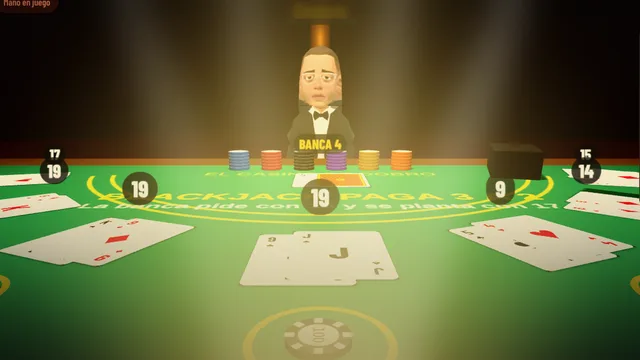
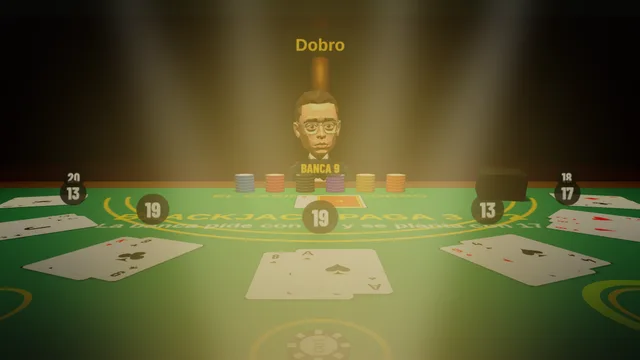
Casino primero en la lobby y tarjeta dorada gigante en los juegos
En la lista de la lobby el casino va primero (y es el juego elegido de
entrada). En la grilla de juegos ocupa toda la fila: borde dorado que gira,
brillo que barre la imagen, chispas que suben y título en oro animado.
Póster nuevo con Dobro de smoking y sin carteles de la interfaz.

Claude-Session: https://claude.ai/code/session_01GR3Q3hi2WhZwo1w7uuPhJy

diff --git a/portal/public/css/nueva-isla.css b/portal/public/css/nueva-isla.css
@@ -6,3 +6,34 @@
 .game-jugar{background:var(--lima);color:#1b2213;font:800 12px/1 'Barlow Condensed',sans-serif;letter-spacing:1px;text-transform:uppercase;padding:7px 14px;border-radius:5px}
 .game:hover .game-jugar{filter:brightness(1.08)}
 .game-meta{align-items:center}
+/* El casino de Dobro: ocupa los 3 lugares de la fila, todo dorado y animado */
+@property --oro-giro{syntax:'<angle>';inherits:false;initial-value:0deg}
+.game.casino-oro{grid-column:1/-1;position:relative;isolation:isolate;display:grid;grid-template-columns:1.55fr 1fr;min-height:360px;border:0;border-radius:12px;padding:3px;overflow:hidden;background:conic-gradient(from var(--oro-giro),#7a5410,#f2c94c,#fff3c0,#d4a017,#7a5410,#f2c94c,#fff3c0,#7a5410);animation:oro-giro 5s linear infinite,oro-latido 3s ease-in-out infinite;box-shadow:0 0 30px #f2c94c44,0 20px 60px #000a}
+.game.casino-oro:hover{transform:translateY(-6px) scale(1.005);box-shadow:0 0 60px #f2c94c88,0 24px 70px #000c}
+.casino-oro>.game-art,.casino-oro>.game-body{position:relative;z-index:1}
+.casino-oro .game-art{height:auto;border-radius:10px 0 0 10px;background:#2a1a08}
+.casino-oro .game-art img{filter:saturate(1.15) contrast(1.05)}
+.casino-oro .game-art:after{inset:0;background:linear-gradient(90deg,transparent 55%,#1a1206 100%),linear-gradient(transparent 60%,#1a1206cc)}
+.casino-oro .game-art::before{content:'';position:absolute;z-index:2;inset:0;background:linear-gradient(105deg,transparent 35%,#fff6c855 48%,#ffffffaa 50%,#fff6c855 52%,transparent 65%);transform:translateX(-120%);animation:oro-brillo 3.6s ease-in-out infinite;pointer-events:none}
+.casino-oro .game-body{display:flex;flex-direction:column;justify-content:center;gap:4px;padding:30px 34px;border-radius:0 10px 10px 0;background:radial-gradient(ellipse at 70% 0%,#4a3510 0%,#1f1608 55%,#140e05 100%)}
+.oro-titulo small{font:700 11px Barlow,sans-serif;letter-spacing:3px;text-transform:uppercase;color:#f2c94c;opacity:.85}
+.casino-oro .game-body h3{font:800 clamp(40px,4.4vw,64px)/.92 'Barlow Condensed',sans-serif;margin:8px 0 4px;background:linear-gradient(100deg,#a8761a 0%,#f2c94c 25%,#fffbe6 40%,#f2c94c 55%,#b8862a 75%,#f2c94c 100%);background-size:250% 100%;-webkit-background-clip:text;background-clip:text;color:transparent;animation:oro-texto 4s linear infinite;filter:drop-shadow(0 2px 12px #f2c94c55)}
+.casino-oro .game-body p{color:#e9dcb8;font-size:15px;min-height:0;margin:8px 0 14px}
+.oro-juegos{display:flex;flex-wrap:wrap;gap:8px;margin-bottom:20px}
+.oro-juegos span{border:1px solid #f2c94c66;background:#f2c94c14;color:#ffe9a8;border-radius:100px;padding:6px 13px;font:700 12px Barlow,sans-serif;letter-spacing:1px;text-transform:uppercase}
+.casino-oro .game-meta{border-top-color:#f2c94c33;color:#e6d29c;font-size:11px}
+.casino-oro .game-jugar{background:linear-gradient(180deg,#ffe58a,#f2c94c 45%,#c9961e);color:#2a1a04;font-size:17px;padding:11px 26px;border-radius:7px;box-shadow:0 0 0 0 #f2c94caa;animation:oro-pulso 1.8s infinite}
+.tag.oro{background:linear-gradient(90deg,#c9961e,#f2c94c);color:#2a1a04;border:0;font-size:10px}
+.oro-luz{position:absolute;z-index:2;top:-30%;left:-10%;width:60%;height:160%;pointer-events:none;background:radial-gradient(ellipse,#ffe9a826,transparent 60%);animation:oro-luz 7s ease-in-out infinite alternate}
+.oro-chispas{position:absolute;z-index:3;inset:0;pointer-events:none;overflow:hidden;border-radius:12px}
+.oro-chispas i{position:absolute;bottom:-12px;left:calc(var(--i) * 7.1% + 2%);width:6px;height:6px;border-radius:50%;background:#fff3c0;box-shadow:0 0 10px 3px #f2c94ccc;opacity:0;animation:oro-chispa calc(3.2s + var(--i) * .23s) linear infinite;animation-delay:calc(var(--i) * -.61s)}
+.oro-chispas i:nth-child(3n){width:4px;height:4px}.oro-chispas i:nth-child(4n){width:8px;height:8px;border-radius:1px;transform:rotate(45deg)}
+@keyframes oro-giro{to{--oro-giro:360deg}}
+@keyframes oro-latido{50%{box-shadow:0 0 55px #f2c94c77,0 20px 60px #000a}}
+@keyframes oro-brillo{0%,15%{transform:translateX(-120%)}60%,100%{transform:translateX(120%)}}
+@keyframes oro-texto{to{background-position:-250% 0}}
+@keyframes oro-pulso{0%{box-shadow:0 0 0 0 #f2c94caa}70%{box-shadow:0 0 0 14px #f2c94c00}100%{box-shadow:0 0 0 0 #f2c94c00}}
+@keyframes oro-luz{to{transform:translateX(150%)}}
+@keyframes oro-chispa{0%{transform:translateY(0) scale(.6);opacity:0}10%{opacity:1}80%{opacity:.9}100%{transform:translateY(-400px) translateX(20px) scale(1.1);opacity:0}}
+@media(max-width:820px){.game.casino-oro{grid-template-columns:1fr;min-height:0}.casino-oro .game-art{height:230px;border-radius:10px 10px 0 0}.casino-oro .game-art:after{background:linear-gradient(transparent 50%,#1a1206)}.casino-oro .game-body{border-radius:0 0 10px 10px;padding:22px}}
+@media(prefers-reduced-motion:reduce){.game.casino-oro,.casino-oro *{animation:none!important}}

diff --git a/portal/public/js/nueva-isla.js b/portal/public/js/nueva-isla.js
@@ -11,7 +11,9 @@ $('#npc-pills').innerHTML=NPCS.map((n,i)=>`<button data-npc="${i}" aria-pressed=
 $('#npc-pills').onclick=e=>{if(e.target.dataset.npc!==undefined){elenco.set(+e.target.dataset.npc);ficha();}};
 $('#npc-prev').onclick=()=>{elenco.previous();ficha();};$('#npc-next').onclick=()=>{elenco.next();ficha();};
 document.querySelectorAll('[data-anim]').forEach(b=>b.onclick=()=>elenco.animar(b.dataset.anim));ficha();
-$('#games').innerHTML=JUEGOS.map(j=>`<a class="game" href="${j.url}"><div class="game-art"><img src="${j.captura}" alt="${j.nombre}" loading="lazy"><span class="tag ${j.id==='royale'?'lime':''}">${j.id==='royale'?'Nueva isla · 3D':j.id==='casino'?'Fichas de mentira':j.id==='carrera'?'Carrera 3D':'Multijugador'}</span></div><div class="game-body"><div class="game-top"><h3>${j.nombre}</h3></div><p>${j.linea}</p><div class="game-meta"><span>${j.datos[0][1]}</span><span data-room="${j.id}"></span><span class="game-jugar">Jugar</span></div></div></a>`).join('');
+// el casino de Dobro: la tarjeta grande y dorada que ocupa toda la fila
+const casinoGrande=j=>`<a class="game casino-oro" href="${j.url}"><div class="oro-luz"></div><div class="oro-chispas">${Array.from({length:14},(_,i)=>`<i style="--i:${i}"></i>`).join('')}</div><div class="game-art"><img src="${j.poster||j.captura}" alt="${j.nombre}" loading="lazy"><span class="tag oro">El juego de la casa</span></div><div class="game-body"><div class="oro-titulo"><small>Abierto toda la noche</small><h3>${j.nombre}</h3></div><p>${j.linea}</p><div class="oro-juegos">${j.datos[1][1].split(' · ').map(x=>`<span>${x}</span>`).join('')}</div><div class="game-meta"><span>${j.datos[2][1]}</span><span data-room="${j.id}"></span><span class="game-jugar">Jugar</span></div></div></a>`;
+$('#games').innerHTML=[...JUEGOS].sort((a,b)=>(b.id==='casino')-(a.id==='casino')).map(j=>j.id==='casino'?casinoGrande(j):`<a class="game" href="${j.url}"><div class="game-art"><img src="${j.captura}" alt="${j.nombre}" loading="lazy"><span class="tag ${j.id==='royale'?'lime':''}">${j.id==='royale'?'Nueva isla · 3D':j.id==='casino'?'Fichas de mentira':j.id==='carrera'?'Carrera 3D':'Multijugador'}</span></div><div class="game-body"><div class="game-top"><h3>${j.nombre}</h3></div><p>${j.linea}</p><div class="game-meta"><span>${j.datos[0][1]}</span><span data-room="${j.id}"></span><span class="game-jugar">Jugar</span></div></div></a>`).join('');
 async function cargar(){for(const j of JUEGOS){try{const r=await fetch(j.lobby);if(!r.ok)continue;const d=await r.json();const n=(d.salas||d.open||[]).length;const el=document.querySelector('[data-room="'+j.id+'"]');el.textContent=n?n+(n===1?' sala abierta':' salas abiertas'):'';el.classList.toggle('room-status',n>0);}catch{}}}
 cargar();setInterval(cargar,20000);
 document.addEventListener('visibilitychange',()=>{if(!document.hidden)cargar();});

diff --git a/portal/public/js/lobby.js b/portal/public/js/lobby.js
@@ -23,12 +23,12 @@ export async function montarLobby(raiz) {
   if (u) { cuenta.textContent = u.nombre; cuenta.href = '/club'; }
 
   // ---------------- entradas de los juegos
-  let modo = Math.max(0, JUEGOS.findIndex((j) => j.id === (localStorage.getItem('cadalado.modo') || 'royale')));
+  let modo = Math.max(0, JUEGOS.findIndex((j) => j.id === (localStorage.getItem('cadalado.modo') || 'casino')));
   const entradas = $('[data-entradas]', raiz);
-  // el casino va en el medio y grande (con la mesa de Dobro); cada juego con su imagen y su botón Jugar
+  // el casino va primero y grande (con la mesa de Dobro); cada juego con su imagen y su botón Jugar
   const orden = JUEGOS.map((j, i) => i).filter((i) => JUEGOS[i].id !== 'casino');
   const iCasino = JUEGOS.findIndex((j) => j.id === 'casino');
-  if (iCasino >= 0) orden.splice(Math.floor(orden.length / 2), 0, iCasino);
+  if (iCasino >= 0) orden.unshift(iCasino);
   entradas.innerHTML = orden.map((i) => { const j = JUEGOS[i]; return `<div class="lb-entrada ${j.id === 'casino' ? 'grande' : ''}" data-i="${i}" style="--c:${j.color}" tabindex="0" role="button" aria-label="Ver ${esc(j.nombre)}">
       <span class="lb-img"><img src="${j.captura}" alt="" loading="lazy"><span class="lb-sala" data-sala="${j.id}"></span></span>
       <span class="lb-txt"><b>${esc(j.nombre)}</b><small>${esc(j.linea)}</small></span>
